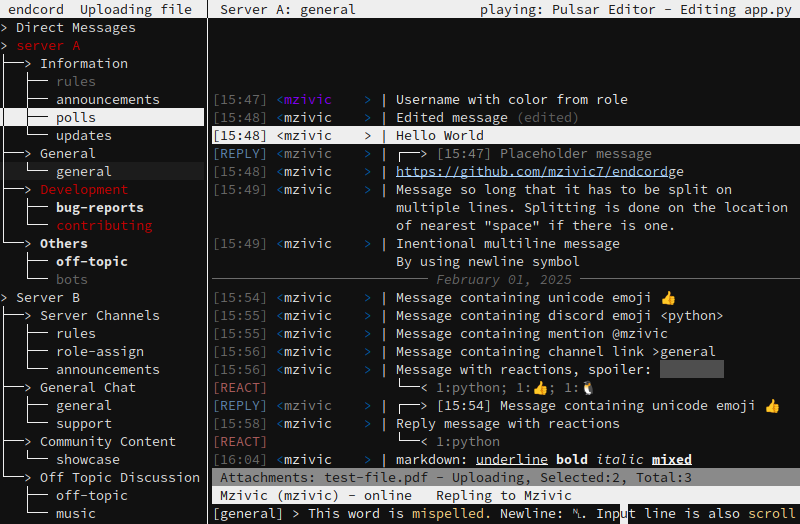
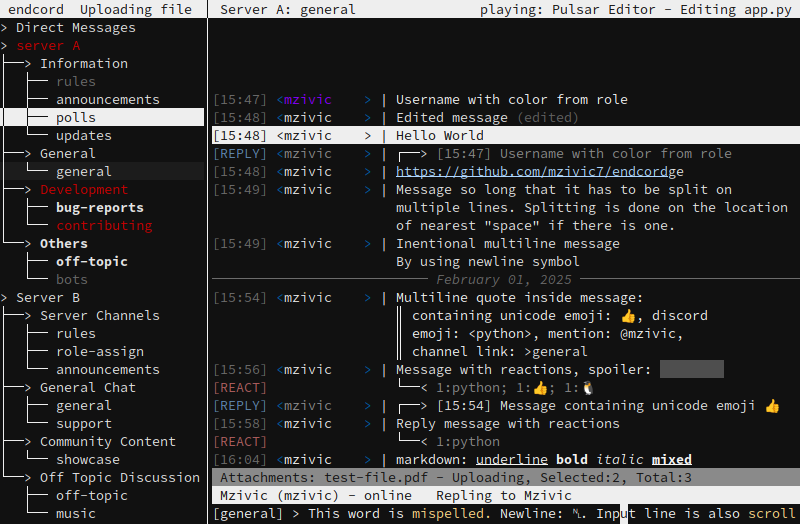
Add quote support Fix missing emoji codes when building Fix multiline markdown Fix dms drop-down not saved to state.json Prevent duplicates in state.json Reduce disc writes

Changed region(s): [[0.4688, 0.5496, 0.9062, 0.7023], [0.25, 0.5802, 0.4062, 0.7023], [0.625, 0.2748, 0.9062, 0.3053]]

diff --git a/endcord/formatter.py b/endcord/formatter.py
@@ -313,6 +313,7 @@ def generate_chat(messages, roles, channels, max_length, my_id, my_roles, member
     date_separator = config["chat_date_separator"]
     format_date = config["format_date"]
     emoji_as_text = config["emoji_as_text"]
+    quote_character = config["quote_character"]
 
     chat = []
     chat_format = []
@@ -493,6 +494,7 @@ def generate_chat(messages, roles, channels, max_length, my_id, my_roles, member
                 temp_format.append(color_reply)
 
         # main message
+        quote = False
         if use_nick and message["nick"]:
             global_name_nick = message["nick"]
         elif message["global_name"]:
@@ -507,6 +509,9 @@ def generate_chat(messages, roles, channels, max_length, my_id, my_roles, member
             content = replace_channels(content, channels)
             if emoji_as_text:
                 content = emoji.demojize(content)
+            if content.startswith("> "):
+                content = quote_character + " " + content[2:]
+                quote = True
         for embed in message["embeds"]:
             if embed["url"] and embed["url"] not in content:
                 if content:
@@ -534,7 +539,7 @@ def generate_chat(messages, roles, channels, max_length, my_id, my_roles, member
             .replace("%content", content)
         )
 
-        # find all ranges where should be no rarkdown formatting
+        # find all ranges where should be no markdown formatting
         except_ranges = []
         for match in re.finditer(match_md_code, message_line):
             except_ranges.append([match.start(), match.end()])
@@ -554,11 +559,6 @@ def generate_chat(messages, roles, channels, max_length, my_id, my_roles, member
                         break
                 if not skip:
                     urls.append([start, end])
-        #except_ranges += urls[:]   # no markdown in url too
-
-        # format markdown
-        message_line, md_format = format_md_all(message_line, pre_content_len, except_ranges + urls)
-        message_line = replace_escaped_md(message_line, except_ranges + urls)
 
         # find all spoilers
         spoilers = []
@@ -568,9 +568,16 @@ def generate_chat(messages, roles, channels, max_length, my_id, my_roles, member
         spoilers = spoilers[message.get("spoiled"):]
 
         # limit message_line and split to multiline
+        message_line_formatted, _ = format_md_all(message_line, pre_content_len, except_ranges + urls)
+        newline_sign = False
         newline_index = max_length
         if len(message_line) > max_length:
-            newline_index = len(message_line[:max_length].rsplit(" ", 1)[0])   #  splits sentence on space
+            newline_index = len(message_line[:max_length].rsplit(" ", 1)[0])   #  splits line on space
+            if len(message_line) != len(message_line_formatted):
+                newline_index_formatted = len(message_line_formatted[:max_length].rsplit(" ", 1)[0])
+                if newline_index < newline_index_formatted:
+                    # splits line on space while ignoring markdown characters
+                    newline_index = len(" ".join(message_line.split(" ")[:len(message_line[:max_length].split(" "))]))
             if newline_index <= len(
                 format_newline
                 .replace("%timestamp", generate_timestamp(message["timestamp"], format_timestamp, convert_timezone))
@@ -580,14 +587,26 @@ def generate_chat(messages, roles, channels, max_length, my_id, my_roles, member
             # if there is \n on current line, use its position to split line
             if "\n" in message_line[:newline_index]:
                 newline_index = message_line.index("\n")
+                quote = False
+                newline_sign = True
             next_line = message_line[newline_index+1:]   # +1 to remove space and \n
             message_line = message_line[:newline_index]
         elif "\n" in message_line:
             newline_index = message_line.index("\n")
             next_line = message_line[newline_index+1:]
             message_line = message_line[:newline_index]
+            quote = False
+            newline_sign = True
         else:
             next_line = None
+
+        # format markdown
+        message_line, md_format = format_md_all(message_line, pre_content_len, except_ranges + urls)
+        message_line = replace_escaped_md(message_line, except_ranges + urls)
+
+        if newline_sign and next_line.startswith("> "):
+            next_line = next_line[2:]   # will be added in newline while loop
+            quote = True
 
         # replace spoilers
         format_spoilers = format_multiline_one_line(spoilers, newline_index+1, 0, selected_color_spoiler)
@@ -627,14 +646,20 @@ def generate_chat(messages, roles, channels, max_length, my_id, my_roles, member
         # newline
         line_num = 1
         while next_line:
+            if quote:
+                full_content = quote_character + " " + next_line
+                extra_newline_len = 2
+            else:
+                full_content = next_line
+                extra_newline_len = 0
             new_line = (
                 format_newline
                 .replace("%timestamp", generate_timestamp(message["timestamp"], format_timestamp, convert_timezone))
-                .replace("%content", next_line)
+                .replace("%content", full_content)
             )
 
             # correct index for each new line
-            content_index_correction = newline_len - 1 - newline_index
+            content_index_correction = newline_len + extra_newline_len - 1 - newline_index
             for url in urls:
                 url[0] += content_index_correction
                 url[1] += content_index_correction
@@ -645,23 +670,38 @@ def generate_chat(messages, roles, channels, max_length, my_id, my_roles, member
                 except_range[0] += content_index_correction
                 except_range[1] += content_index_correction
 
-            new_line, md_format = format_md_all(new_line, pre_content_len, except_ranges + urls)
-
             # limit new_line and split to next line
+            new_line_formatted, _ = format_md_all(new_line, pre_content_len + extra_newline_len, except_ranges + urls)
+            newline_sign = False
             if len(new_line) > max_length:
                 newline_index = len(new_line[:max_length].rsplit(" ", 1)[0])
+                if len(message_line) != len(new_line_formatted):
+                    newline_index_formatted = len(new_line_formatted[:max_length].rsplit(" ", 1)[0])
+                    if newline_index < newline_index_formatted:
+                        newline_index = len(" ".join(new_line.split(" ")[:len(new_line[:max_length].split(" "))]))
                 if newline_index <= newline_len:
                     newline_index = max_length
                 if "\n" in new_line[:newline_index]:
                     newline_index = new_line.index("\n")
+                    quote = False
+                    newline_sign = True
                 next_line = new_line[newline_index+1:]
                 new_line = new_line[:newline_index]
             elif "\n" in new_line:
                 newline_index = new_line.index("\n")
                 next_line = new_line[newline_index+1:]
                 new_line = new_line[:newline_index]
+                quote = False
+                newline_sign = True
             else:
                 next_line = None
+
+            # format markdown
+            new_line, md_format = format_md_all(new_line, pre_content_len + extra_newline_len, except_ranges + urls)
+
+            if newline_sign and next_line.startswith("> "):
+                next_line = quote_character + " " + next_line[2:]
+                quote = True
 
             # replace spoilers
             format_spoilers = format_multiline_one_line(spoilers, newline_index+1, newline_len, selected_color_spoiler)

diff --git a/build.py b/build.py
@@ -2,7 +2,29 @@ import argparse
 import importlib.metadata
 import importlib.util
 import os
+import shutil
+import site
 import sys
+
+
+def prepare_emoji_codes():
+    """
+    Patch that gets and prepares necesary unicode_codes directory from emoji lib.
+    This directory is not copied by pyinstaller, so it has to be done with --add-data.
+    Return relative path to emoji dir.
+    """
+    site_pkgs = site.getsitepackages()[0]
+    emoji_codes = os.path.join("emoji", "unicode_codes")
+    site_emoji_codes = os.path.join(site_pkgs, emoji_codes)
+    if os.path.exists(site_emoji_codes):
+        os.makedirs(emoji_codes, exist_ok=True)
+        # copy only json
+        for file_name in os.listdir(site_emoji_codes):
+            source_file = os.path.join(site_emoji_codes, file_name)
+            if os.path.isfile(source_file) and file_name.endswith(".json"):
+                shutil.copy(source_file, emoji_codes)
+        return "emoji"
+    sys.exit("Emoji library is missing")
 
 
 def check_media_support():
@@ -58,14 +80,16 @@ def build():
         pkgname = "endcord-lite"
         print("Media support is disabled")
 
+    emoji_path = prepare_emoji_codes()
+
     if sys.platform == "linux":
-        command = f'pipenv run python -m PyInstaller {hidden_imports}--noconfirm --onefile --clean --name {pkgname} "main.py"'
+        command = f'pipenv run python -m PyInstaller {hidden_imports}--add-data="{emoji_path}:emoji" --noconfirm --onefile --clean --name {pkgname} "main.py"'
         os.system(command)
     elif sys.platform == "win32":
-        command = f'pipenv run python -m PyInstaller {hidden_imports}--noconfirm --onefile --console --clean --name {pkgname} "main.py"'
+        command = f'pipenv run python -m PyInstaller {hidden_imports}--add-data="{emoji_path}:emoji" --noconfirm --onefile --console --clean --name {pkgname} "main.py"'
         os.system(command)
     elif sys.platform == "mac":
-        command = f'pipenv run python -m PyInstaller {hidden_imports}--noconfirm --onefile --console --clean --name {pkgname} "main.py"'
+        command = f'pipenv run python -m PyInstaller {hidden_imports}--add-data="{emoji_path}:emoji" --noconfirm --onefile --console --clean --name {pkgname} "main.py"'
         os.system(command)
     else:
         sys.exit(f"This platform is not supported: {sys.platform}")

diff --git a/endcord/app.py b/endcord/app.py
@@ -81,7 +81,6 @@ class Endcord:
         self.default_msg_alt_color = self.colors[1]
         self.cached_downloads = []
         self.color_cache = []
-        self.collapsed_no_data = []
 
         # variables
         self.run = False
@@ -386,12 +385,6 @@ class Endcord:
             collapsed.remove(guild_id)
 
         self.update_tree(collapsed=collapsed)
-
-        # update channels belonging to never processed guilds
-        # keeping this so it can be saved to state.json
-        for channel in guild["channels"]:
-            if channel["id"] in self.collapsed_no_data:
-                self.collapsed_no_data.remove(channel["id"])
 
         # keep this guild selected
         if select:
@@ -1407,13 +1400,10 @@ class Endcord:
             for num, code in enumerate(self.tree_format):
                 if code < 300 and (code % 10) == 0:
                     collapsed.append(self.tree_metadata[num]["id"])
-            try:
-                self.collapsed_no_data.remove(0)
-            except ValueError:
-                pass
-            self.state["collapsed"] = collapsed + self.collapsed_no_data
-            if save:
-                peripherals.save_state(self.state)
+            if self.state["collapsed"] != collapsed:
+                self.state["collapsed"] = collapsed
+                if save:
+                    peripherals.save_state(self.state)
 
 
     def send_desktop_notification(self, new_message):
@@ -1544,13 +1534,6 @@ class Endcord:
                     "last_channel_id": None,
                     "collapsed": [],
                 }
-            # save collapsed categories without processed guild
-            guild_ids = []
-            for guild in self.guilds:
-                guild_ids.append(guild["guild_id"])
-            for collapsed_id in self.state["collapsed"]:
-                if collapsed_id not in guild_ids:
-                    self.collapsed_no_data.append(collapsed_id)
 
         # open uncollapsed guilds
         self.open_guild(guild["guild_id"], restore=True)

diff --git a/endcord/tui.py b/endcord/tui.py
@@ -987,6 +987,7 @@ class TUI():
                     else:
                         self.tree_format[self.tree_selected_abs] += 1
                     self.draw_tree()
+                    self.tree_format_changed = True
                 # if selected tree entry is guild drop-down
                 elif 100 <= self.tree_format[self.tree_selected_abs] <= 199:
                     tmp = self.input_buffer

diff --git a/endcord/defaults.py b/endcord/defaults.py
@@ -45,6 +45,7 @@ theme = {
     "format_rich": "playing: %name - %state - %details ",
     "format_prompt": "[%channel] > ",
     "edited_string": "(edited)",
+    "quote_character": "|",
     "reactions_separator": "; ",
     "chat_date_separator": "-",
     "format_date": " %B %d, %Y ",

diff --git a/main.py b/main.py
@@ -8,7 +8,7 @@ import traceback
 from endcord import app, arg, defaults, keybinding, peripherals
 
 APP_NAME = "endcord"
-VERSION = "0.7.0"
+VERSION = "0.8.0"
 default_config_path = peripherals.config_path
 log_path = peripherals.log_path
 

diff --git a/configuration.md b/configuration.md
@@ -103,6 +103,8 @@ Note: always put string in `""`. To use `"` inside the string escape it like thi
     Formatting for prompt line. See [format_prompt](#format_prompt) for more info.
 - `edited_string = "(edited)"`  
     A string added to the end of the message when it is edsited.
+- `quote_character = "|"`  
+    A character that is prepended to each line of songle or multiline quote.
 - `reactions_separator = "; "`  
     A string placed between two reactions.
 - `chat_date_separator = "-"`  

diff --git a/README.md b/README.md
@@ -49,7 +49,7 @@ Discord token is required in order to run endcord! see [Token](#token).
 - No ghost pings (when client is running)
 - Role colors in chat
 - Date separtors in chat
-- Partial markdown support (underline, bold, italic, spoiler)
+- Partial markdown support (underline, bold, italic, spoiler, quote)
 - Emoji support with `:emoji:` (only default)
 - Theming
 - Customizable status, title and prompt lines
